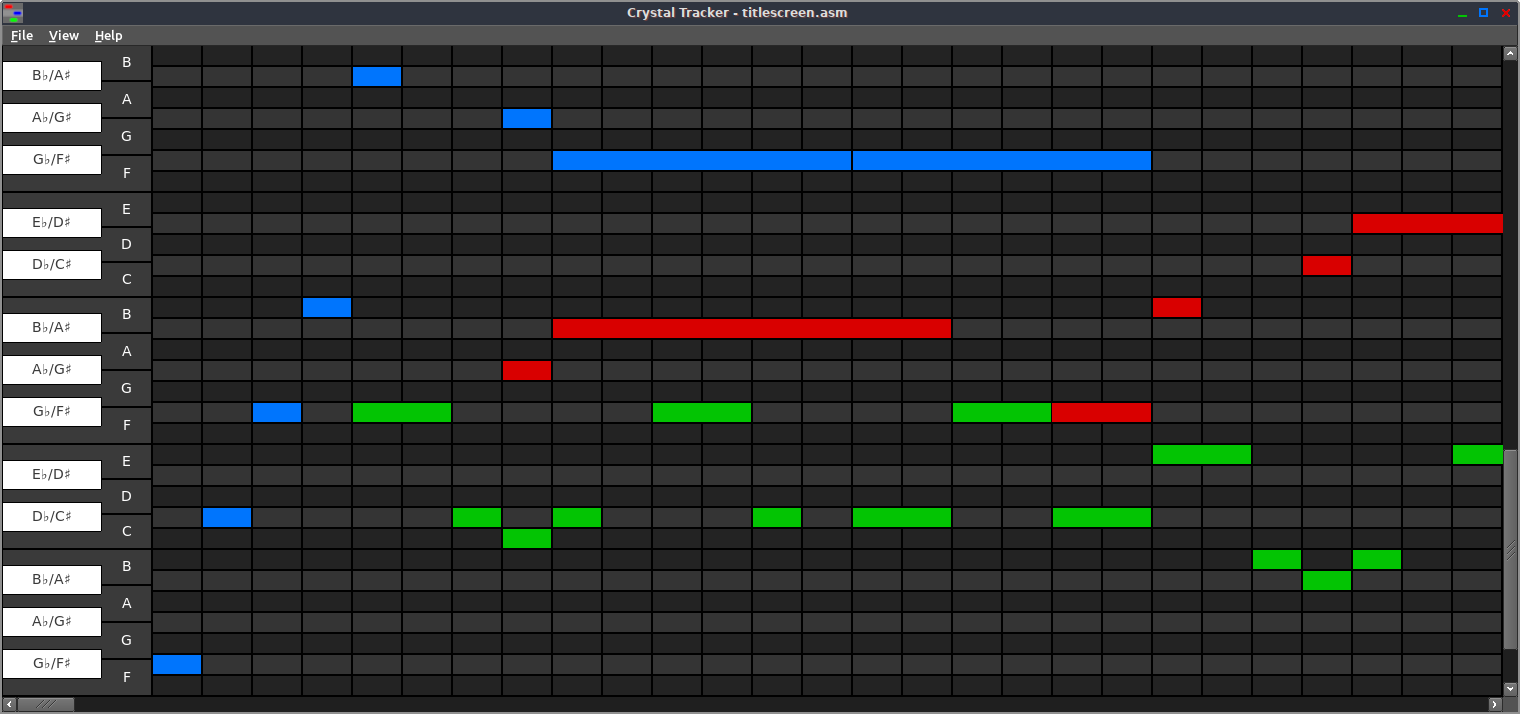
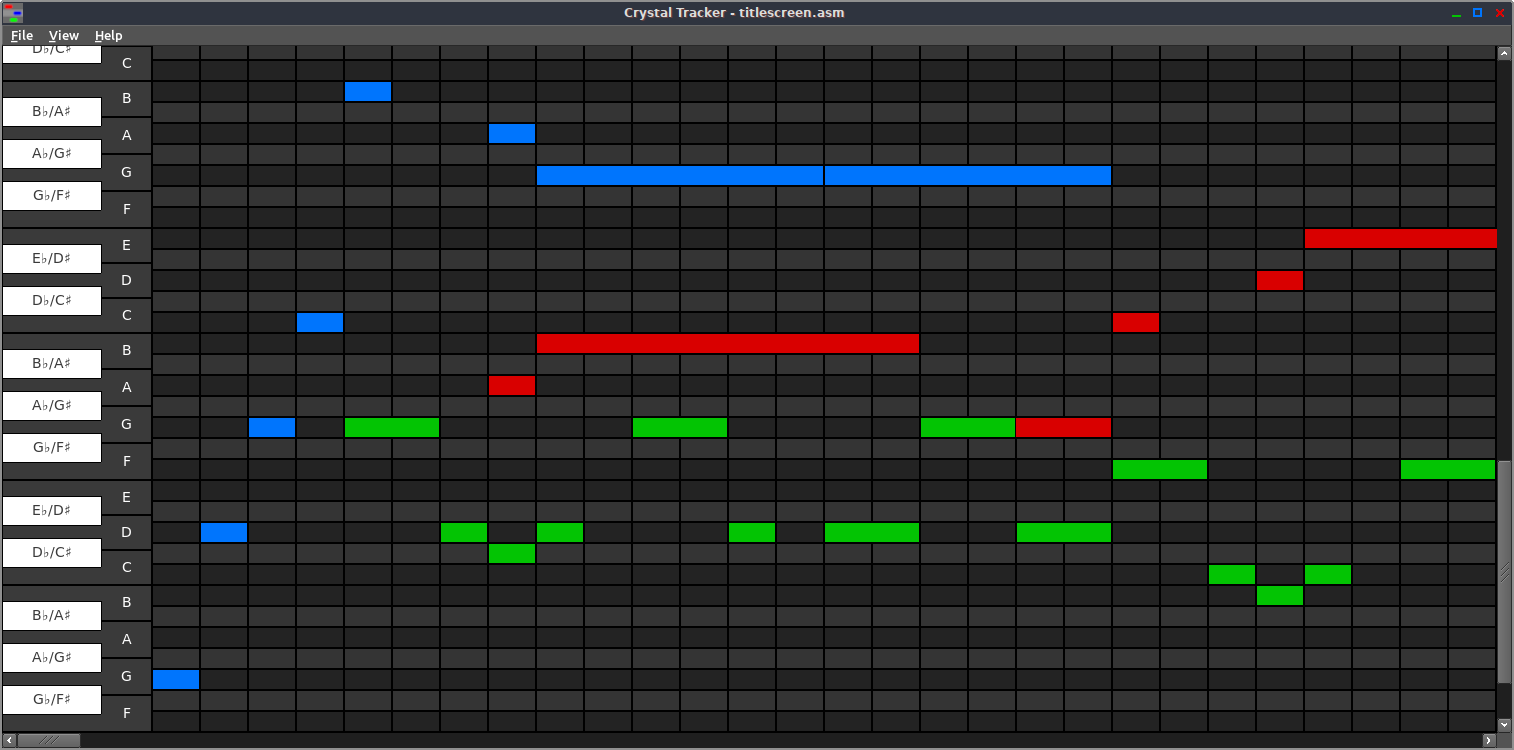
Handle volume envelopes and fix visual pitch off-by-one error

Changed region(s): [[0.0, 0.0308, 1.0, 1.0], [0.4036, 0.0, 0.5588, 0.0308]]

diff --git a/src/it-module.cpp b/src/it-module.cpp
@@ -240,6 +240,20 @@ static std::vector<std::vector<uint8_t>> get_patterns(const Song &song) {
 	uint32_t channel_3_note_length = 0;
 	/* uint32_t channel_4_note_length = 0; */
 
+	Note_View channel_1_prev_note;
+	Note_View channel_2_prev_note;
+	Note_View channel_3_prev_note;
+	/* Note_View channel_4_prev_note; */
+
+	auto channel_3_volume = [](int32_t volume) {
+		return (uint8_t)(
+			volume == 1 ? 64 :
+			volume == 2 ? 32 :
+			volume == 3 ? 16 :
+			0
+		);
+	};
+
 	do {
 		std::vector<uint8_t> pattern;
 
@@ -258,18 +272,31 @@ static std::vector<std::vector<uint8_t>> get_patterns(const Song &song) {
 				channel_1_note_length = channel_1_itr->length * channel_1_itr->speed / 2 - 1;
 				if (channel_1_itr->pitch != Pitch::REST) {
 					pattern_data.push_back(0x81);
-					pattern_data.push_back(0x03); // note + sample
-					pattern_data.push_back(channel_1_itr->octave * 12 + (uint32_t)channel_1_itr->pitch);
+					pattern_data.push_back(0x07); // note + sample + volume
+					pattern_data.push_back(channel_1_itr->octave * 12 + (uint32_t)channel_1_itr->pitch - 1);
 					pattern_data.push_back(0x01); // sample
+					pattern_data.push_back((channel_1_itr->volume + 1) * 4); // volume
 				}
 				else {
 					pattern_data.push_back(0x81);
 					pattern_data.push_back(0x04); // new volume
 					pattern_data.push_back(0x00); // volume
 				}
+				channel_1_prev_note = *channel_1_itr;
 				++channel_1_itr;
 			}
 			else if (channel_1_note_length > 0) {
+				if (channel_1_prev_note.fade && row % 4 == 0) {
+					pattern_data.push_back(0x81);
+					pattern_data.push_back(0x08);
+					pattern_data.push_back(0x04);
+					if (channel_1_prev_note.fade > 0) {
+						pattern_data.push_back(0xf0 | (8 - channel_1_prev_note.fade));
+					}
+					else {
+						pattern_data.push_back(((8 + channel_1_prev_note.fade) << 4) | 0x0f);
+					}
+				}
 				channel_1_note_length -= 1;
 			}
 
@@ -277,18 +304,31 @@ static std::vector<std::vector<uint8_t>> get_patterns(const Song &song) {
 				channel_2_note_length = channel_2_itr->length * channel_2_itr->speed / 2 - 1;
 				if (channel_2_itr->pitch != Pitch::REST) {
 					pattern_data.push_back(0x82);
-					pattern_data.push_back(0x03); // note + sample
-					pattern_data.push_back(channel_2_itr->octave * 12 + (uint32_t)channel_2_itr->pitch);
+					pattern_data.push_back(0x07); // note + sample + volume
+					pattern_data.push_back(channel_2_itr->octave * 12 + (uint32_t)channel_2_itr->pitch - 1);
 					pattern_data.push_back(0x01); // sample
+					pattern_data.push_back((channel_2_itr->volume + 1) * 4); // volume
 				}
 				else {
 					pattern_data.push_back(0x82);
 					pattern_data.push_back(0x04); // new volume
 					pattern_data.push_back(0x00); // volume
 				}
+				channel_2_prev_note = *channel_2_itr;
 				++channel_2_itr;
 			}
 			else if (channel_2_note_length > 0) {
+				if (channel_2_prev_note.fade && row % 4 == 0) {
+					pattern_data.push_back(0x82);
+					pattern_data.push_back(0x08);
+					pattern_data.push_back(0x04);
+					if (channel_2_prev_note.fade > 0) {
+						pattern_data.push_back(0xf0 | (8 - channel_2_prev_note.fade));
+					}
+					else {
+						pattern_data.push_back(((8 + channel_2_prev_note.fade) << 4) | 0x0f);
+					}
+				}
 				channel_2_note_length -= 1;
 			}
 
@@ -296,15 +336,17 @@ static std::vector<std::vector<uint8_t>> get_patterns(const Song &song) {
 				channel_3_note_length = channel_3_itr->length * channel_3_itr->speed / 2 - 1;
 				if (channel_3_itr->pitch != Pitch::REST) {
 					pattern_data.push_back(0x83);
-					pattern_data.push_back(0x03); // note + sample
-					pattern_data.push_back(channel_3_itr->octave * 12 + (uint32_t)channel_3_itr->pitch);
+					pattern_data.push_back(0x07); // note + sample + volume
+					pattern_data.push_back(channel_3_itr->octave * 12 + (uint32_t)channel_3_itr->pitch - 1);
 					pattern_data.push_back(0x02); // sample
+					pattern_data.push_back(channel_3_volume(channel_3_itr->volume)); // volume
 				}
 				else {
 					pattern_data.push_back(0x83);
 					pattern_data.push_back(0x04); // new volume
 					pattern_data.push_back(0x00); // volume
 				}
+				channel_3_prev_note = *channel_3_itr;
 				++channel_3_itr;
 			}
 			else if (channel_3_note_length > 0) {

diff --git a/src/song.cpp b/src/song.cpp
@@ -4,7 +4,7 @@
 #include "song.h"
 #include "parse-song.h"
 
-const auto find_note_with_label(const std::list<Command> &commands, std::string label) {
+static const auto find_note_with_label(const std::list<Command> &commands, std::string label) {
 	for (auto command_itr = commands.begin(); command_itr != commands.end(); ++command_itr) {
 		if (command_itr->labels.count(label) > 0) {
 			return command_itr;
@@ -15,30 +15,45 @@ const auto find_note_with_label(const std::list<Command> &commands, std::string 
 
 static std::list<Note_View> build_timeline(const std::list<Command> &commands) {
 	std::list<Note_View> timeline;
-	int32_t octave = 1;
-	int32_t speed = 12;
+	Note_View note;
+	note.octave = 1;
+	note.speed = 12;
+	note.volume = 0;
+	note.fade = 0;
 	auto command_itr = commands.begin();
 	std::stack<std::pair<decltype(command_itr), int32_t>> loop_stack;
 	std::stack<decltype(command_itr)> call_stack;
 	while (command_itr != commands.end()) {
 		// TODO: handle all other commands...
 		if (command_itr->type == Command_Type::NOTE) {
-			timeline.push_back(Note_View{ command_itr->note.length, command_itr->note.pitch, octave, speed });
+			note.length = command_itr->note.length;
+			note.pitch = command_itr->note.pitch;
+			timeline.push_back(note);
 		}
 		else if (command_itr->type == Command_Type::DRUM_NOTE) {
-			timeline.push_back(Note_View{ command_itr->drum_note.length, (Pitch)(command_itr->drum_note.instrument % NUM_PITCHES), command_itr->drum_note.instrument / (int32_t)NUM_PITCHES + 1, speed });
+			note.length = command_itr->drum_note.length;
+			note.pitch = (Pitch)command_itr->drum_note.instrument;
+			timeline.push_back(note);
 		}
 		else if (command_itr->type == Command_Type::REST) {
-			timeline.push_back(Note_View{ command_itr->rest.length, Pitch::REST, octave, speed });
+			note.length = command_itr->rest.length;
+			note.pitch = Pitch::REST;
+			timeline.push_back(note);
 		}
 		else if (command_itr->type == Command_Type::OCTAVE) {
-			octave = command_itr->octave.octave;
+			note.octave = command_itr->octave.octave;
 		}
 		else if (command_itr->type == Command_Type::NOTE_TYPE) {
-			speed = command_itr->note_type.speed;
+			note.speed = command_itr->note_type.speed;
+			note.volume = command_itr->note_type.volume;
+			note.fade = command_itr->note_type.fade;
 		}
 		else if (command_itr->type == Command_Type::DRUM_SPEED) {
-			speed = command_itr->drum_speed.speed;
+			note.speed = command_itr->drum_speed.speed;
+		}
+		else if (command_itr->type == Command_Type::VOLUME_ENVELOPE) {
+			note.volume = command_itr->volume_envelope.volume;
+			note.fade = command_itr->volume_envelope.fade;
 		}
 		else if (command_itr->type == Command_Type::SOUND_JUMP) {
 			command_itr = find_note_with_label(commands, command_itr->target);

diff --git a/src/command.h b/src/command.h
@@ -5,7 +5,7 @@
 #include <string>
 
 enum class Pitch {
-	REST = -1,
+	REST,
 	C_NAT,
 	C_SHARP,
 	D_NAT,
@@ -21,6 +21,7 @@ enum class Pitch {
 };
 
 static const char * const PITCH_NAMES[] = {
+	"",
 	"C_",
 	"C#",
 	"D_",
@@ -35,7 +36,7 @@ static const char * const PITCH_NAMES[] = {
 	"B_",
 };
 
-static const size_t NUM_PITCHES = sizeof(PITCH_NAMES) / sizeof(char *);
+static const size_t NUM_PITCHES = sizeof(PITCH_NAMES) / sizeof(char *) - 1;
 
 enum class Command_Type {
 	NOTE,
@@ -235,6 +236,11 @@ struct Note_View {
 	Pitch pitch;
 	int32_t octave;
 	int32_t speed;
+	int32_t volume;
+	union {
+		int32_t fade;
+		int32_t wave;
+	};
 };
 
 #endif

diff --git a/src/parse-song.cpp b/src/parse-song.cpp
@@ -225,7 +225,7 @@ static bool get_bool_and_bool(std::istringstream &iss, int32_t &b1, int32_t &b2)
 }
 
 static bool get_pitch_from_string(const std::string &s, Pitch &p) {
-	for (size_t i = 0; i < NUM_PITCHES; ++i) {
+	for (size_t i = 1; i <= NUM_PITCHES; ++i) {
 		if (s == PITCH_NAMES[i]) {
 			p = (Pitch)i;
 			return true;
